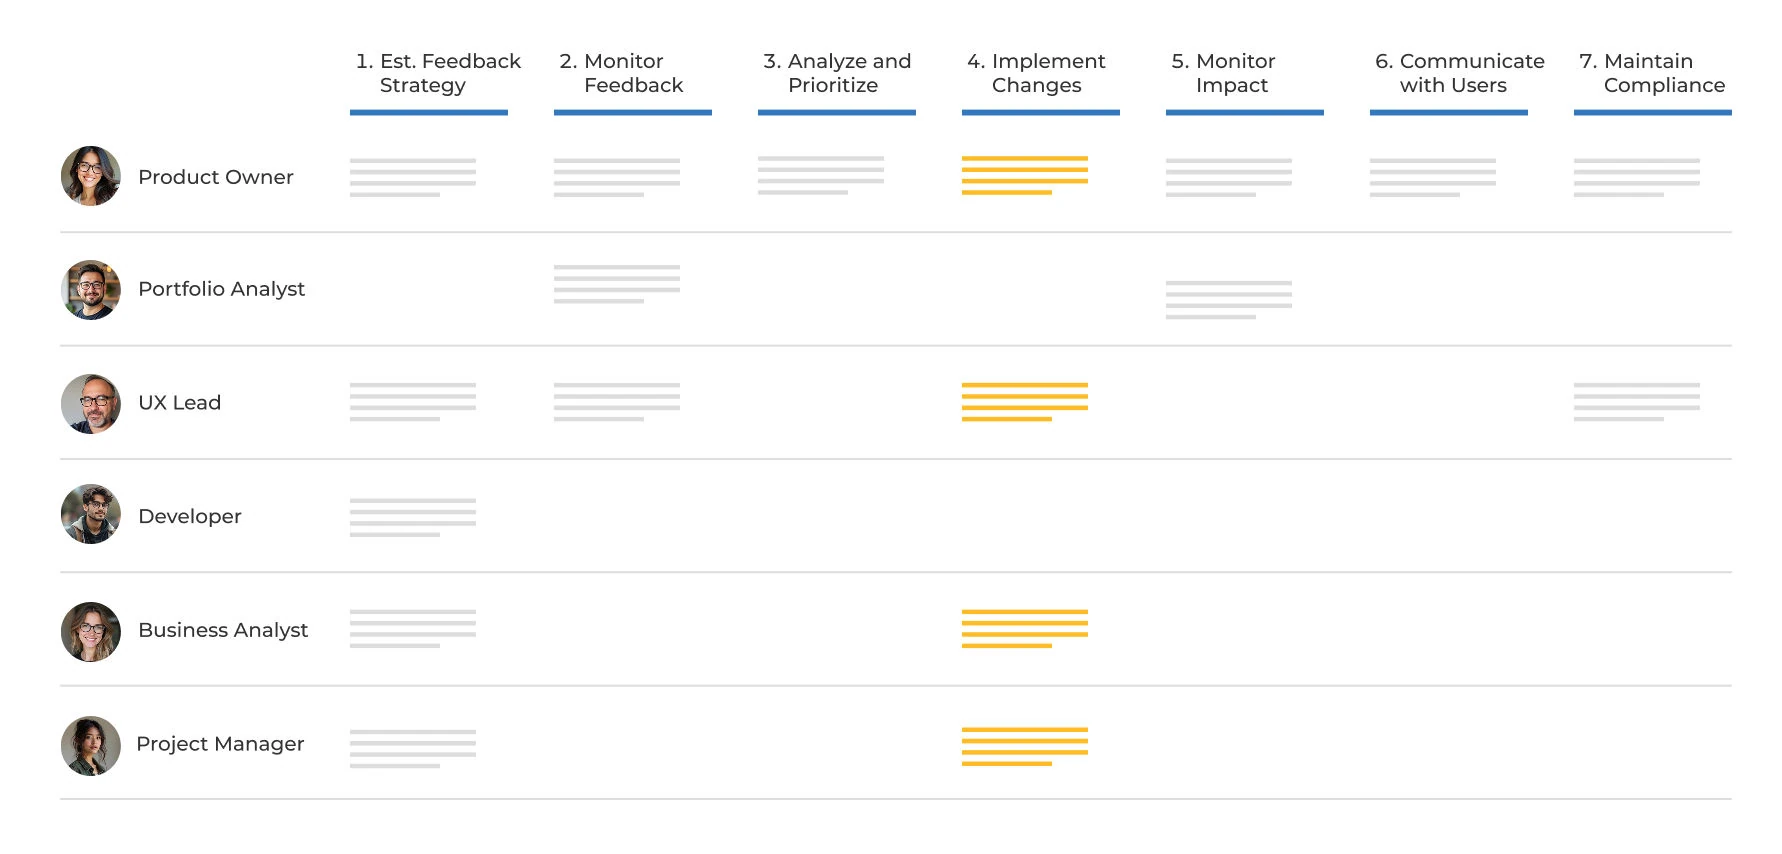
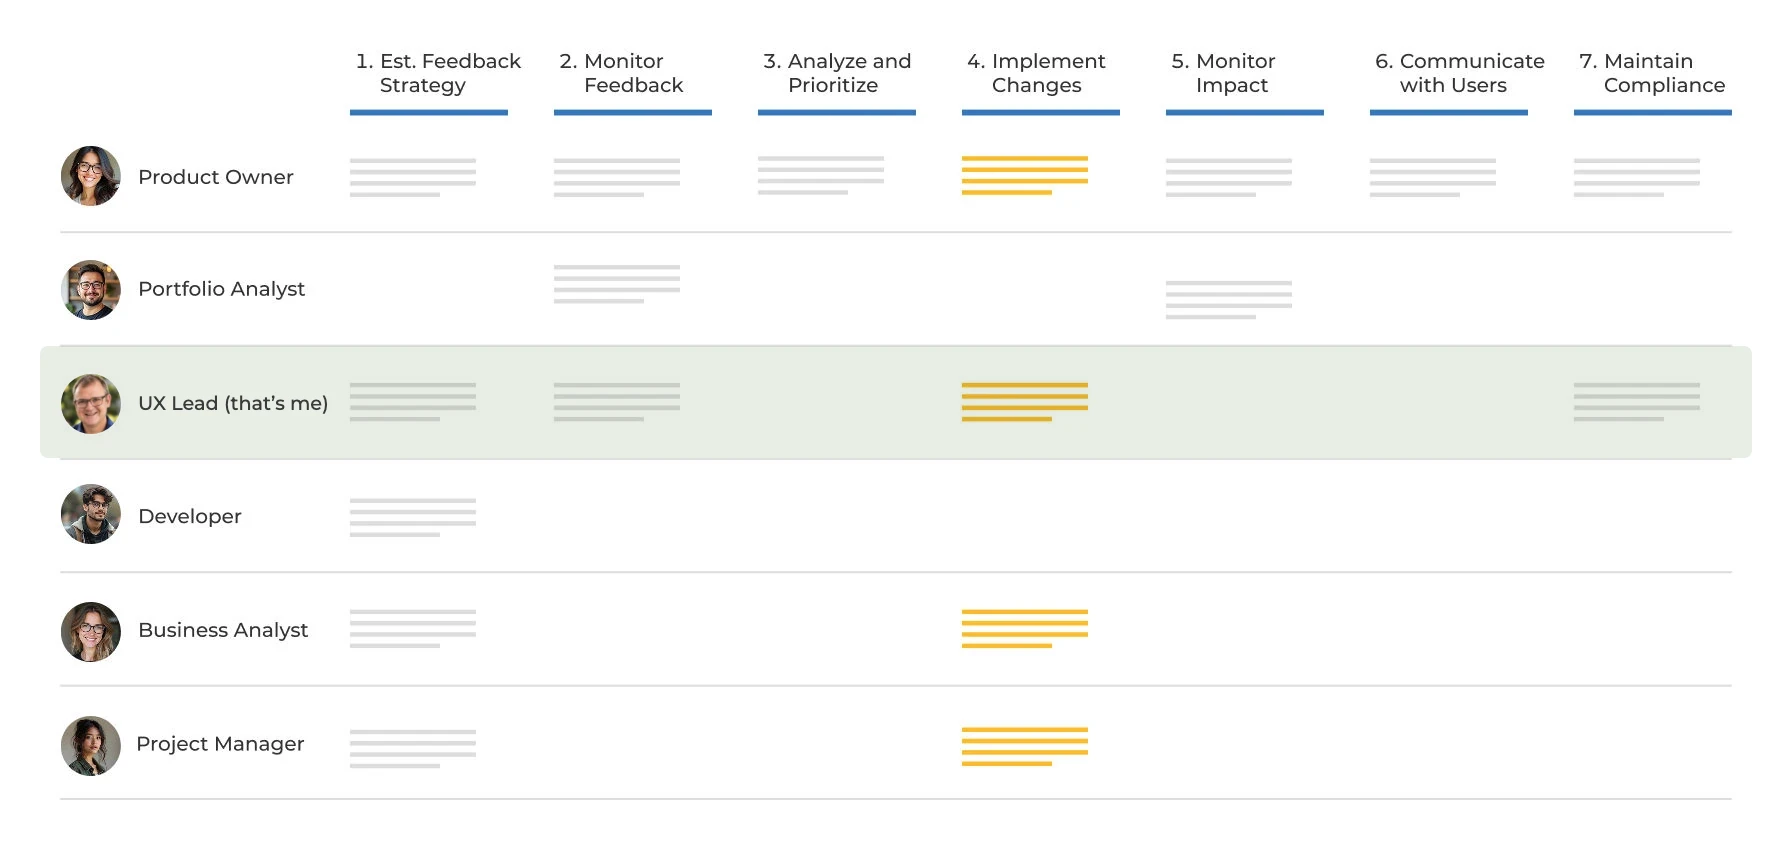
SAP case study: the workflow graphic marks the UX Lead row as me
Highlights the row on tea-light, labels it "UX Lead (that's me)", and sets
my LinkedIn photo in place of the placeholder face. Alt text says so too.

Changed region(s): [[0.0, 0.3958, 0.9877, 0.548]]

diff --git a/case-study/sap-product-maturity.html b/case-study/sap-product-maturity.html
@@ -316,7 +316,7 @@
 
         <h3 id="quality-routine" class="cc-step"><span class="cc-step-n" aria-hidden="true">3</span>Make quality routine</h3>
         <p>Design quality is decided between the moment a request comes in and the day the app ships. So <strong>UX and accessibility checks went in at every step</strong> along the way, and the standards started showing up in every release.</p>
-        <div class="cc-card"><h4 class="cc-title">Cross-functional workflow for app feedback</h4><img src="../img/site/cross-functional-workflow.webp?updatedAt=1768931705790" alt="Cross-functional workflow for app feedback" class="cc-img" width="1782" height="854" loading="lazy" decoding="async"></div>
+        <div class="cc-card"><h4 class="cc-title">Cross-functional workflow for app feedback</h4><img src="../img/site/cross-functional-workflow.webp?v=20261103" alt="Cross-functional workflow for app feedback: six roles across seven steps, with the UX Lead row, mine, highlighted" class="cc-img" width="1782" height="854" loading="lazy" decoding="async"></div>
 
         <aside class="dp-note hj-note" aria-labelledby="hj-inherit-label hj-inherit-head"><p class="dp-note-label" id="hj-inherit-label"><svg class="dp-note-icon" xmlns="http://www.w3.org/2000/svg" viewBox="0 0 24 24" aria-hidden="true" focusable="false"><path d="M12 3v18"></path><path d="m19 8 3 8a5 5 0 0 1-6 0zV7"></path><path d="M3 7h1a17 17 0 0 0 8-2 17 17 0 0 0 8 2h1"></path><path d="m5 8 3 8a5 5 0 0 1-6 0zV7"></path><path d="M7 21h10"></path></svg>Human judgment</p><h3 class="dp-note-head" id="hj-inherit-head">A style guide only reaches the people who read it. A check in the release reaches every team that ships.</h3><p class="dp-note-body">The cost: a check can stop a release, so teams pushed back, and an app with a real reason to differ <strong>had to ask first</strong>. I was fine with that. Each exception became a choice someone made on purpose, not a slip nobody noticed.</p><p class="dp-note-source">Evidence: <a href="#the-impact">the production-defect row and how it was counted</a>.</p></aside>
 
